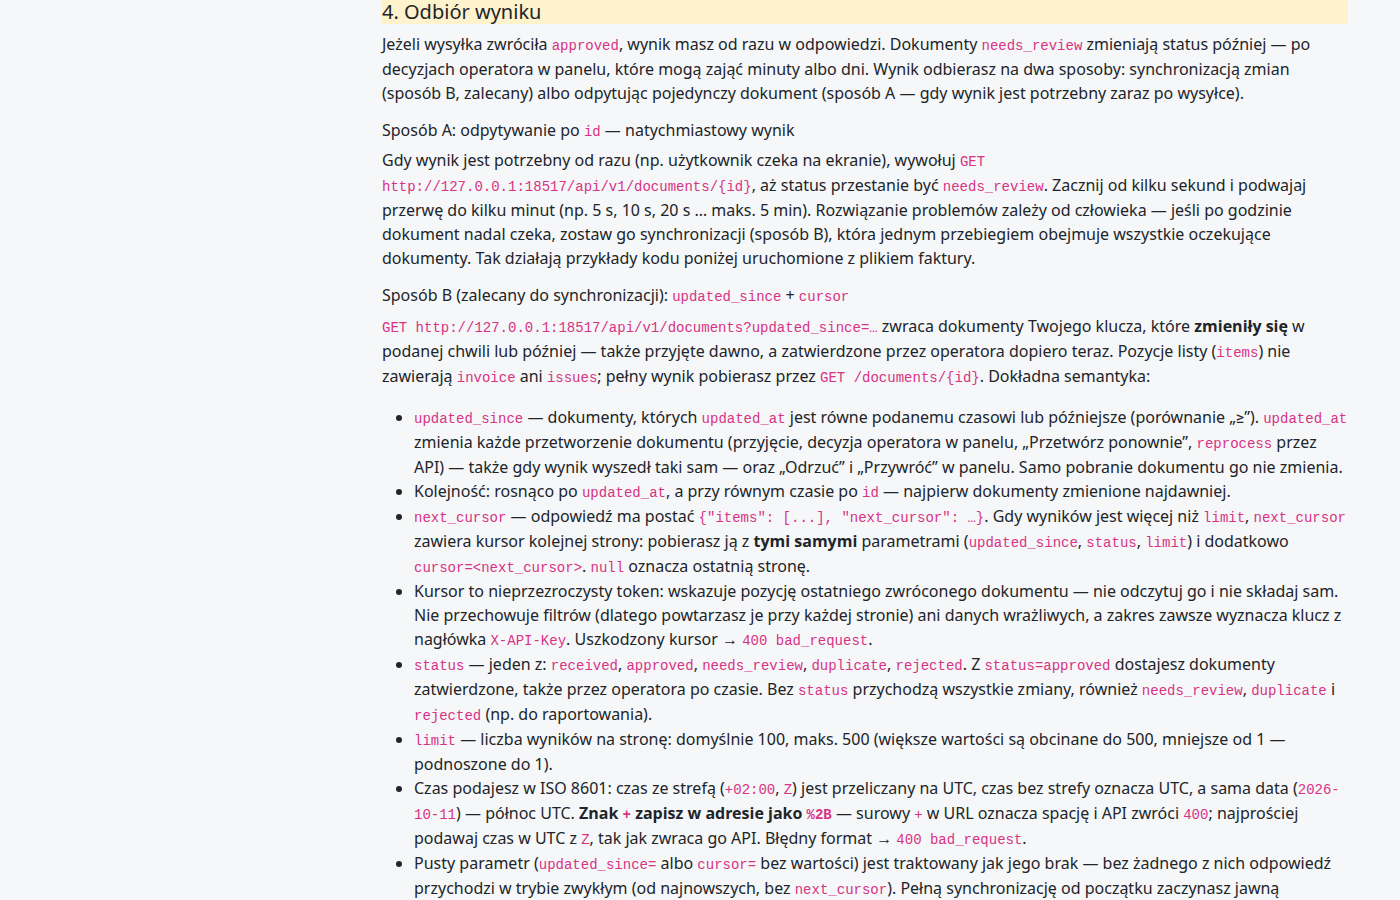
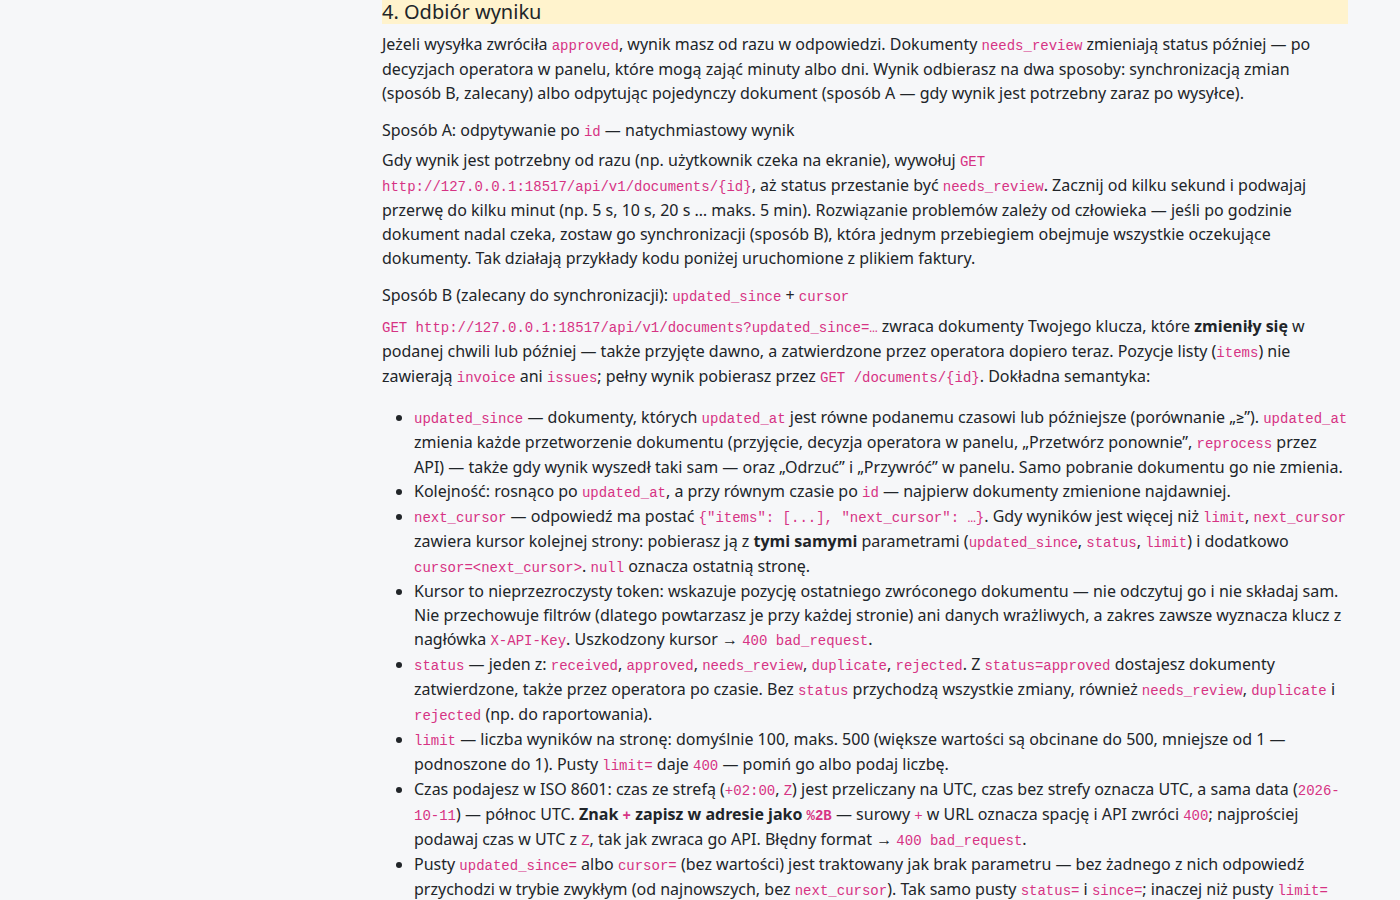
docs(api): poprawki po przeglądzie A4 — pusty limit= daje 400, deduplikacja po id i updated_at, stan PHP jako obiekt
- Pomoc „REST API” i OpenAPI: zasada „pusty parametr = brak” zawężona do status=, since=, updated_since=
  i cursor= (tak działa routes.list_documents); pusty limit= daje 400 — opisane też przy limit
  w „Integracji” i w opisie parametru limit w OpenAPI.
- Spójne sformułowanie deduplikacji: po id i updated_at (FAQ, README, „Integracja”); dopisane, że
  deduplikacja po samym id pominęłaby późniejsze zmiany tego samego dokumentu.
- Przykład PHP zapisuje stan przez json_encode(…, JSON_FORCE_OBJECT): pusty „seen” jako {}, więc wspólny
  plik xp-sync.json czytają też przykłady w Pythonie, Node i powłoce (dotąd [] — błąd w Pythonie i jq).
- Testy: zasada pustych parametrów sprawdzana na API i w treści Pomocy/OpenAPI, sformułowanie
  deduplikacji, flaga JSON_FORCE_OBJECT; docs/pomoc z tools/export_help.py; odświeżony zrzut
  12-pomoc-integracja.png (pokazuje zmienione punkty).

Claude-Session: https://claude.ai/code/session_015a9MwTdU8pYJBCSugH4P9N

Changed region(s): [[0.2764, 0.84, 0.9521, 1.0]]

diff --git a/app/templates/help/integracja.html b/app/templates/help/integracja.html
@@ -116,15 +116,17 @@
     <code>status</code> przychodzą wszystkie zmiany, również <code>needs_review</code>, <code>duplicate</code>
     i <code>rejected</code> (np. do raportowania).</li>
   <li><code>limit</code> — liczba wyników na stronę: domyślnie {{ limits.list_default }}, maks. {{ limits.list_max }}
-    (większe wartości są obcinane do {{ limits.list_max }}, mniejsze od 1 — podnoszone do 1).</li>
+    (większe wartości są obcinane do {{ limits.list_max }}, mniejsze od 1 — podnoszone do 1). Pusty
+    <code>limit=</code> daje <code>400</code> — pomiń go albo podaj liczbę.</li>
   <li>Czas podajesz w ISO 8601: czas ze strefą (<code>+02:00</code>, <code>Z</code>) jest przeliczany na UTC, czas bez
     strefy oznacza UTC, a sama data (<code>2026-10-11</code>) — północ UTC. <strong>Znak <code>+</code> zapisz w adresie
     jako <code>%2B</code></strong> — surowy <code>+</code> w URL oznacza spację i API zwróci <code>400</code>; najprościej
     podawaj czas w UTC z <code>Z</code>, tak jak zwraca go API. Błędny format → <code>400 bad_request</code>.</li>
-  <li>Pusty parametr (<code>updated_since=</code> albo <code>cursor=</code> bez wartości) jest traktowany jak jego brak —
-    bez żadnego z nich odpowiedź przychodzi w trybie zwykłym (od najnowszych, bez <code>next_cursor</code>). Pełną
-    synchronizację od początku zaczynasz jawną wartością: <code>updated_since=1970-01-01T00:00:00Z</code> (albo datą
-    wdrożenia integracji).</li>
+  <li>Pusty <code>updated_since=</code> albo <code>cursor=</code> (bez wartości) jest traktowany jak brak parametru —
+    bez żadnego z nich odpowiedź przychodzi w trybie zwykłym (od najnowszych, bez <code>next_cursor</code>). Tak samo
+    pusty <code>status=</code> i <code>since=</code>; inaczej niż pusty <code>limit=</code> (wyżej). Pełną synchronizację
+    od początku zaczynasz jawną wartością: <code>updated_since=1970-01-01T00:00:00Z</code> (albo datą wdrożenia
+    integracji).</li>
 </ul>
 <p>Kolejne strony jednego przebiegu (wartości przykładowe):</p>
 <pre class="bg-light border p-2 small"><code class="language-text">GET {{ api_base }}/api/v1/documents?updated_since=2026-10-11T06:00:00Z&amp;status=approved&amp;limit={{ limits.list_max }}
@@ -138,8 +140,10 @@ GET {{ api_base }}/api/v1/documents?updated_since=2026-10-11T06:00:00Z&amp;statu
     <li>dokument z <code>updated_at</code> równym <code>updated_since</code> wraca w kolejnym przebiegu;</li>
     <li>margines bezpieczeństwa (niżej) celowo pobiera ponownie dokumenty z ostatnich minut.</li>
   </ul>
-  Odrzucaj powtórzenia po <code>id</code> (para <code>id</code> + <code>updated_at</code> już przetworzona — pomiń)
-  i importuj idempotentnie, np. aktualizuj rekord o danym <code>id</code> zamiast dopisywać nowy.</div>
+  Odrzucaj powtórzenia po <code>id</code> i <code>updated_at</code> (para już przetworzona — pomiń) i importuj
+  idempotentnie, np. aktualizuj rekord o danym <code>id</code> zamiast dopisywać nowy. Samo <code>id</code> nie
+  wystarczy: ten sam dokument z nowszym <code>updated_at</code> to późniejsza zmiana (np. ponowne przetworzenie
+  z poprawionym wynikiem), którą trzeba zaimportować.</div>
 <p><strong>Zalecany algorytm</strong> (tak działa synchronizacja w przykładach kodu — argument <code>--sync</code>):</p>
 <ol>
   <li><strong>Stan</strong>: trzymaj u siebie <code>last_sync</code> — największy <code>updated_at</code> spośród
@@ -311,8 +315,9 @@ python3 faktura.py --sync        # jeden przebieg synchronizacji (sposób B)</co
     <code>product_index</code> lub <code>unit</code>).</li>
   <li><strong><code>since</code> zamiast <code>updated_since</code> do synchronizacji</strong> — <code>since</code> filtruje
     po czasie przyjęcia, więc gubi faktury zatwierdzone przez operatora później (rozdział 4).</li>
-  <li><strong>Brak deduplikacji po <code>id</code></strong> przy dostawie „co najmniej raz” — powtórzenia z marginesu,
-    z granicy <code>updated_since</code> i ze zmian w trakcie stronicowania dublują import.</li>
+  <li><strong>Brak deduplikacji po <code>id</code> i <code>updated_at</code></strong> przy dostawie „co najmniej raz” —
+    powtórzenia z marginesu i z granicy <code>updated_since</code> dublują import. Deduplikacja po samym
+    <code>id</code> też jest błędem: pomija późniejsze zmiany tego samego dokumentu.</li>
   <li><strong>Zapamiętywanie czasu z własnego zegara</strong> zamiast <code>max(updated_at)</code> odebranych
     dokumentów — różnica zegarów i czas trwania przebiegu przesuwają okno, a dokumenty giną.</li>
   <li><strong>Kolejna strona bez powtórzenia parametrów</strong> — kursor nie pamięta filtrów: strona pobrana z samym

diff --git a/app/templates/help/api.html b/app/templates/help/api.html
@@ -69,8 +69,9 @@ curl -H "X-API-Key: TWÓJ_KLUCZ" \
   późniejszych zmian statusu), <code>limit</code> (liczba wyników na żądanie: domyślnie {{ limits.list_default }},
   maks. {{ limits.list_max }}). Czas ze strefą (<code>+02:00</code>, <code>Z</code>) jest przeliczany na UTC, czas bez
   strefy oznacza UTC, a sama data — północ UTC; znak <code>+</code> w adresie zapisz jako <code>%2B</code>. Pusty
-  parametr (np. <code>updated_since=</code>) oznacza brak parametru. Wyniki są w polu <code>items</code>, bez
-  <code>invoice</code> i <code>issues</code>.</p>
+  <code>status=</code>, <code>since=</code>, <code>updated_since=</code> albo <code>cursor=</code> oznacza brak
+  parametru, ale pusty <code>limit=</code> daje <code>400</code> — pomiń go albo podaj liczbę. Wyniki są w polu
+  <code>items</code>, bez <code>invoice</code> i <code>issues</code>.</p>
 
 <h2 class="h5 mt-4">Szczegóły dokumentu — <code>GET /api/v1/documents/{id}</code></h2>
 <pre class="bg-light border p-2 small">curl -H "X-API-Key: TWÓJ_KLUCZ" \

diff --git a/tests/test_web_help.py b/tests/test_web_help.py
@@ -217,6 +217,7 @@ def test_integration_topic_after_api_and_linked(client):
     faq = client.get("/pomoc/faq").get_data(as_text=True)
     assert "Jak podłączyć swoją aplikację?" in faq and 'href="/pomoc/integracja"' in faq
     assert "Jak dowiedzieć się, że operator zatwierdził fakturę wysłaną przez API?" in faq
+    assert "powtórzenia odrzucaj po id i updated_at" in faq  # nie po samym id — to gubiłoby późniejsze zmiany
 
 
 def _text(html: str) -> str:
@@ -240,6 +241,7 @@ def test_integration_recommends_sync_with_margin_and_keeps_history_note(client):
     text = _text(client.get(INTEGRATION).get_data(as_text=True))
     assert "Sposób B (zalecany do synchronizacji): updated_since + cursor" in text
     assert "last_sync − 5 min" in text and "co najmniej raz" in text
+    assert "Odrzucaj powtórzenia po id i updated_at" in text and "Samo id nie wystarczy" in text
     assert "Przed v0.5.0 lista filtrowała tylko po czasie przyjęcia (since)" in text
     assert "planowane w kolejnej wersji" in text
 
@@ -257,6 +259,25 @@ def test_integration_examples_sync_in_four_languages(client):
         for term in (sync[lang], margin[lang], "--sync", "updated_since", "next_cursor", "1970-01-01T00:00:00Z"):
             assert term in text, (lang, term)
     assert "original_id($doc)" in code["php"] and "originalId(doc)" in code["javascript"]
+    # wspólny format pliku stanu: puste „seen” jako {} (bez flagi PHP zapisałby [], nieczytelne dla Pythona i jq)
+    assert "JSON_FORCE_OBJECT" in code["php"]
+
+
+def test_help_empty_parameter_rule_matches_api(seeded, client):
+    """Pusty status=, since=, updated_since=, cursor= to brak parametru, ale pusty limit= daje 400 — tak mówi Pomoc
+    i OpenAPI, i tak działa API (routes.list_documents)."""
+    import yaml
+    key = {"X-API-Key": "xp_test_demo_key"}
+    r = client.get("/api/v1/documents?status=&since=&updated_since=&cursor=", headers=key)
+    assert r.status_code == 200 and set(r.get_json()) == {"items"}  # tryb zwykły
+    r = client.get("/api/v1/documents?limit=", headers=key)
+    assert r.status_code == 400 and r.get_json()["error"]["code"] == "bad_request"
+    for path in ("/pomoc/api", INTEGRATION):
+        text = _text(client.get(path).get_data(as_text=True))
+        assert "pusty limit= daje 400" in text.lower(), path
+        assert "Pusty parametr (np." not in text, path  # dawne ogólne zdanie — fałszywe dla limit
+    spec = yaml.safe_load((ROOT / "app" / "static" / "openapi.yaml").read_text(encoding="utf-8"))
+    assert "pusty `limit=` daje 400" in spec["paths"]["/documents"]["get"]["description"]
 
 
 def test_openapi_matches_documents_api(seeded, client):

diff --git a/app/help_content.py b/app/help_content.py
@@ -296,6 +296,6 @@ FAQ: list[dict] = [
      "a": "Synchronizuj listę: GET /api/v1/documents?updated_since=…&status=approved zwraca dokumenty zatwierdzone "
           "od podanej chwili — także przyjęte wcześniej, a zatwierdzone przez operatora w panelu dopiero teraz. "
           "Kolejne strony pobierasz z cursor=<next_cursor>, aż next_cursor będzie null; każdy przebieg zaczynaj "
-          "od ostatniego odebranego updated_at minus 5 minut, a powtórzenia odrzucaj po id. Parametr since tu nie "
-          "pomoże — filtruje po czasie przyjęcia faktury.", "link": "integracja"},
+          "od ostatniego odebranego updated_at minus 5 minut, a powtórzenia odrzucaj po id i updated_at. Parametr "
+          "since tu nie pomoże — filtruje po czasie przyjęcia faktury.", "link": "integracja"},
 ]

diff --git a/app/help_examples/integracja.php b/app/help_examples/integracja.php
@@ -104,7 +104,7 @@ function sync_approved(string $statePath = 'xp-sync.json'): void {
             $cutoff = minus_margin($state['last_sync']);
             $state['seen'] = array_filter($state['seen'], fn ($at) => strcmp($at, $cutoff) >= 0);
         }
-        file_put_contents("$statePath.tmp", json_encode($state));
+        file_put_contents("$statePath.tmp", json_encode($state, JSON_FORCE_OBJECT)); // pusty seen jako {}, nie []
         rename("$statePath.tmp", $statePath); // stan po każdej stronie; zapis atomowy
         $query['cursor'] = $page['next_cursor']; // kolejna strona: te same parametry + kursor
     } while ($page['next_cursor'] !== null);

diff --git a/docs/pomoc/integracja.md b/docs/pomoc/integracja.md
@@ -85,9 +85,9 @@ Gdy wynik jest potrzebny od razu (np. użytkownik czeka na ekranie), wywołuj `G
 - `next_cursor` — odpowiedź ma postać `{"items": [...], "next_cursor": …}`. Gdy wyników jest więcej niż `limit`, `next_cursor` zawiera kursor kolejnej strony: pobierasz ją z **tymi samymi** parametrami (`updated_since`, `status`, `limit`) i dodatkowo `cursor=<next_cursor>`. `null` oznacza ostatnią stronę.
 - Kursor to nieprzezroczysty token: wskazuje pozycję ostatniego zwróconego dokumentu — nie odczytuj go i nie składaj sam. Nie przechowuje filtrów (dlatego powtarzasz je przy każdej stronie) ani danych wrażliwych, a zakres zawsze wyznacza klucz z nagłówka `X-API-Key`. Uszkodzony kursor → `400 bad_request`.
 - `status` — jeden z: `received`, `approved`, `needs_review`, `duplicate`, `rejected`. Z `status=approved` dostajesz dokumenty zatwierdzone, także przez operatora po czasie. Bez `status` przychodzą wszystkie zmiany, również `needs_review`, `duplicate` i `rejected` (np. do raportowania).
-- `limit` — liczba wyników na stronę: domyślnie 100, maks. 500 (większe wartości są obcinane do 500, mniejsze od 1 — podnoszone do 1).
+- `limit` — liczba wyników na stronę: domyślnie 100, maks. 500 (większe wartości są obcinane do 500, mniejsze od 1 — podnoszone do 1). Pusty `limit=` daje `400` — pomiń go albo podaj liczbę.
 - Czas podajesz w ISO 8601: czas ze strefą (`+02:00`, `Z`) jest przeliczany na UTC, czas bez strefy oznacza UTC, a sama data (`2026-10-11`) — północ UTC. **Znak `+` zapisz w adresie jako `%2B`** — surowy `+` w URL oznacza spację i API zwróci `400`; najprościej podawaj czas w UTC z `Z`, tak jak zwraca go API. Błędny format → `400 bad_request`.
-- Pusty parametr (`updated_since=` albo `cursor=` bez wartości) jest traktowany jak jego brak — bez żadnego z nich odpowiedź przychodzi w trybie zwykłym (od najnowszych, bez `next_cursor`). Pełną synchronizację od początku zaczynasz jawną wartością: `updated_since=1970-01-01T00:00:00Z` (albo datą wdrożenia integracji).
+- Pusty `updated_since=` albo `cursor=` (bez wartości) jest traktowany jak brak parametru — bez żadnego z nich odpowiedź przychodzi w trybie zwykłym (od najnowszych, bez `next_cursor`). Tak samo pusty `status=` i `since=`; inaczej niż pusty `limit=` (wyżej). Pełną synchronizację od początku zaczynasz jawną wartością: `updated_since=1970-01-01T00:00:00Z` (albo datą wdrożenia integracji).
 
 Kolejne strony jednego przebiegu (wartości przykładowe):
 
@@ -104,7 +104,7 @@ GET http://localhost:18506/api/v1/documents?updated_since=2026-10-11T06:00:00Z&s
 - dokument z `updated_at` równym `updated_since` wraca w kolejnym przebiegu;
 - margines bezpieczeństwa (niżej) celowo pobiera ponownie dokumenty z ostatnich minut.
 
-Odrzucaj powtórzenia po `id` (para `id` + `updated_at` już przetworzona — pomiń) i importuj idempotentnie, np. aktualizuj rekord o danym `id` zamiast dopisywać nowy.
+Odrzucaj powtórzenia po `id` i `updated_at` (para już przetworzona — pomiń) i importuj idempotentnie, np. aktualizuj rekord o danym `id` zamiast dopisywać nowy. Samo `id` nie wystarczy: ten sam dokument z nowszym `updated_at` to późniejsza zmiana (np. ponowne przetworzenie z poprawionym wynikiem), którą trzeba zaimportować.
 
 **Zalecany algorytm** (tak działa synchronizacja w przykładach kodu — argument `--sync`):
 
@@ -537,7 +537,7 @@ function sync_approved(string $statePath = 'xp-sync.json'): void {
             $cutoff = minus_margin($state['last_sync']);
             $state['seen'] = array_filter($state['seen'], fn ($at) => strcmp($at, $cutoff) >= 0);
         }
-        file_put_contents("$statePath.tmp", json_encode($state));
+        file_put_contents("$statePath.tmp", json_encode($state, JSON_FORCE_OBJECT)); // pusty seen jako {}, nie []
         rename("$statePath.tmp", $statePath); // stan po każdej stronie; zapis atomowy
         $query['cursor'] = $page['next_cursor']; // kolejna strona: te same parametry + kursor
     } while ($page['next_cursor'] !== null);
@@ -784,7 +784,7 @@ esac
 - **Pole formularza o innej nazwie** niż `file` (np. `plik`, `invoice`) → `400 empty_body`.
 - **Import przy `needs_review`** — `invoice` jest wtedy niepełny (np. bez `product_index` lub `unit`).
 - **`since` zamiast `updated_since` do synchronizacji** — `since` filtruje po czasie przyjęcia, więc gubi faktury zatwierdzone przez operatora później (rozdział 4).
-- **Brak deduplikacji po `id`** przy dostawie „co najmniej raz” — powtórzenia z marginesu, z granicy `updated_since` i ze zmian w trakcie stronicowania dublują import.
+- **Brak deduplikacji po `id` i `updated_at`** przy dostawie „co najmniej raz” — powtórzenia z marginesu i z granicy `updated_since` dublują import. Deduplikacja po samym `id` też jest błędem: pomija późniejsze zmiany tego samego dokumentu.
 - **Zapamiętywanie czasu z własnego zegara** zamiast `max(updated_at)` odebranych dokumentów — różnica zegarów i czas trwania przebiegu przesuwają okno, a dokumenty giną.
 - **Kolejna strona bez powtórzenia parametrów** — kursor nie pamięta filtrów: strona pobrana z samym `cursor` zwraca dokumenty we wszystkich statusach, po 100 na stronę.
 - **Puste `updated_since=`** — jest traktowane jak brak parametru, więc lista przychodzi w trybie zwykłym (bez `next_cursor`); pierwszy przebieg zacznij od `1970-01-01T00:00:00Z`.

diff --git a/docs/pomoc/api.md b/docs/pomoc/api.md
@@ -62,7 +62,7 @@ curl -H "X-API-Key: TWÓJ_KLUCZ" \
   "http://localhost:18506/api/v1/documents?status=approved&since=2026-10-01T00:00:00Z&limit=50"
 ```
 
-Filtry wspólne obu trybów (opcjonalne, łączone warunkiem „i”): `status` (jeden ze statusów: `received`, `approved`, `needs_review`, `duplicate`, `rejected`), `since` (ISO 8601 — dokumenty **przyjęte** od tej chwili, po `created_at`; nie widzi późniejszych zmian statusu), `limit` (liczba wyników na żądanie: domyślnie 100, maks. 500). Czas ze strefą (`+02:00`, `Z`) jest przeliczany na UTC, czas bez strefy oznacza UTC, a sama data — północ UTC; znak `+` w adresie zapisz jako `%2B`. Pusty parametr (np. `updated_since=`) oznacza brak parametru. Wyniki są w polu `items`, bez `invoice` i `issues`.
+Filtry wspólne obu trybów (opcjonalne, łączone warunkiem „i”): `status` (jeden ze statusów: `received`, `approved`, `needs_review`, `duplicate`, `rejected`), `since` (ISO 8601 — dokumenty **przyjęte** od tej chwili, po `created_at`; nie widzi późniejszych zmian statusu), `limit` (liczba wyników na żądanie: domyślnie 100, maks. 500). Czas ze strefą (`+02:00`, `Z`) jest przeliczany na UTC, czas bez strefy oznacza UTC, a sama data — północ UTC; znak `+` w adresie zapisz jako `%2B`. Pusty `status=`, `since=`, `updated_since=` albo `cursor=` oznacza brak parametru, ale pusty `limit=` daje `400` — pomiń go albo podaj liczbę. Wyniki są w polu `items`, bez `invoice` i `issues`.
 
 ## Szczegóły dokumentu — `GET /api/v1/documents/{id}`
 

diff --git a/docs/pomoc/faq.md b/docs/pomoc/faq.md
@@ -52,4 +52,4 @@ Utwórz klucz w „Klucze API”, wysyłaj faktury przez POST /api/v1/documents 
 
 ## Jak dowiedzieć się, że operator zatwierdził fakturę wysłaną przez API?
 
-Synchronizuj listę: GET /api/v1/documents?updated_since=…&status=approved zwraca dokumenty zatwierdzone od podanej chwili — także przyjęte wcześniej, a zatwierdzone przez operatora w panelu dopiero teraz. Kolejne strony pobierasz z cursor=&lt;next_cursor>, aż next_cursor będzie null; każdy przebieg zaczynaj od ostatniego odebranego updated_at minus 5 minut, a powtórzenia odrzucaj po id. Parametr since tu nie pomoże — filtruje po czasie przyjęcia faktury. [Więcej →](integracja.md)
+Synchronizuj listę: GET /api/v1/documents?updated_since=…&status=approved zwraca dokumenty zatwierdzone od podanej chwili — także przyjęte wcześniej, a zatwierdzone przez operatora w panelu dopiero teraz. Kolejne strony pobierasz z cursor=&lt;next_cursor>, aż next_cursor będzie null; każdy przebieg zaczynaj od ostatniego odebranego updated_at minus 5 minut, a powtórzenia odrzucaj po id i updated_at. Parametr since tu nie pomoże — filtruje po czasie przyjęcia faktury. [Więcej →](integracja.md)

diff --git a/README.md b/README.md
@@ -73,7 +73,7 @@ curl -H "X-API-Key: TWÓJ_KLUCZ" "http://localhost:18506/api/v1/documents?update
 
 Czasy w odpowiedziach (`created_at`, `updated_at`) są w ISO 8601 w UTC z mikrosekundami i `Z`
 (`2026-10-11T06:04:38.312308Z`); parametry czasu przyjmują strefę (`+` w adresie zapisz jako `%2B`).
-Zalecany algorytm synchronizacji (margines 5 min, deduplikacja po `id`) i gotowy kod w Pythonie, PHP,
+Zalecany algorytm synchronizacji (margines 5 min, deduplikacja po `id` i `updated_at`) i gotowy kod w Pythonie, PHP,
 JavaScripcie i powłoce: [docs/pomoc/integracja.md](docs/pomoc/integracja.md).
 Pełny opis endpointów, kodów odpowiedzi i limitów: [docs/pomoc/api.md](docs/pomoc/api.md),
 w panelu: `/api/docs` (OpenAPI: [`app/static/openapi.yaml`](app/static/openapi.yaml)).
